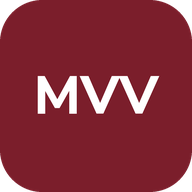
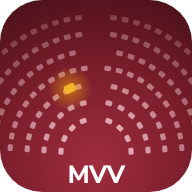
Ícone novo com as fileiras da capa e nome Setores
- ícone do app (Android, iPhone e navegador) com as fileiras e a cadeira dourada da capa
- nome do app instalado passa a ser Setores
- tira a capa de dentro das telas de entrada

Claude-Session: https://claude.ai/code/session_01QQsPF8XeogtLn94jHnRfHZ

diff --git a/index.html b/index.html
@@ -21,7 +21,7 @@
 })();
 </script>
 <meta name="robots" content="noindex"/>
-<title>Assentos | Eventos MVV</title>
+<title>Setores | Eventos MVV</title>
 <meta name="description" content="Encontre seu lugar nos eventos do Ministério Verbo da Vida: setor, fileira e cadeira, e a presença da equipe ao vivo."/>
 <meta property="og:type" content="website"/>
 <meta property="og:title" content="Setores | Eventos MVV"/>
@@ -36,7 +36,7 @@
 <link rel="apple-touch-icon" href="apple-touch-icon.png"/>
 <meta name="apple-mobile-web-app-capable" content="yes"/>
 <meta name="mobile-web-app-capable" content="yes"/>
-<meta name="apple-mobile-web-app-title" content="Assentos MVV"/>
+<meta name="apple-mobile-web-app-title" content="Setores"/>
 <meta name="apple-mobile-web-app-status-bar-style" content="default"/>
 <link rel="preconnect" href="https://fonts.googleapis.com"/>
 <link rel="preconnect" href="https://fonts.gstatic.com" crossorigin/>
@@ -391,7 +391,6 @@ import('./mapa3d.js').then(function(m){ window.Mapa3D = m; }).catch(function(e){
 <div id="telaEventos">
   <header class="barra-topo"><div class="barra-topo-in"><div class="marca"><div class="marca-sinal">MVV</div><span>Ministério Verbo da Vida<small>Eventos</small></span></div><div class="espaco"></div><button class="btn-ico" type="button" data-tema-btn aria-haspopup="menu" aria-label="Aparência" title="Aparência"><svg><use href="#i-tema"/></svg></button><button class="btn-instalar oculto" type="button" data-instalar><svg><use href="#i-baixar"/></svg>Instalar app</button></div></header>
   <main class="conteudo estreito">
-    <img class="capa" src="capa.png" width="1200" height="630" alt="Setores, Eventos MVV"/>
     <h1>Escolha o evento</h1>
     <p class="sub">Selecione o evento para encontrar seu lugar ou entrar como equipe.</p>
     <div class="ev-lista" id="listaEventos"><div class="carreg"><span class="giro"></span>Carregando eventos</div></div>
@@ -408,7 +407,6 @@ import('./mapa3d.js').then(function(m){ window.Mapa3D = m; }).catch(function(e){
     <button class="btn-txt" id="btnTrocarEvento" type="button">Trocar evento</button>
   </div></header>
   <main class="conteudo estreito">
-    <img class="capa" src="capa.png" width="1200" height="630" alt="Setores, Eventos MVV"/>
     <h1 id="evNome">Evento</h1>
     <div class="meta" id="evMeta"></div>
 

diff --git a/sw.js b/sw.js
@@ -1,6 +1,6 @@
 /* App Assentos MVV: guarda os arquivos para abrir rápido e sem internet.
  * Os dados ao vivo (Firebase) nunca passam por aqui. Ao mudar arquivos do app, troque a VERSAO. */
-var VERSAO = 'assentos-v3';
+var VERSAO = 'assentos-v4';
 var APP = ['./', './index.html', './locais.js', './mapa3d.js', './reserva.js', './manifest.webmanifest',
   './icone-192.png', './icone-512.png', './apple-touch-icon.png', './favicon-32.png', './capa.png'];
 var FIXOS = /^https:\/\/(cdn\.jsdelivr\.net\/npm\/three@|www\.gstatic\.com\/firebasejs\/|fonts\.(googleapis|gstatic)\.com\/)/;
